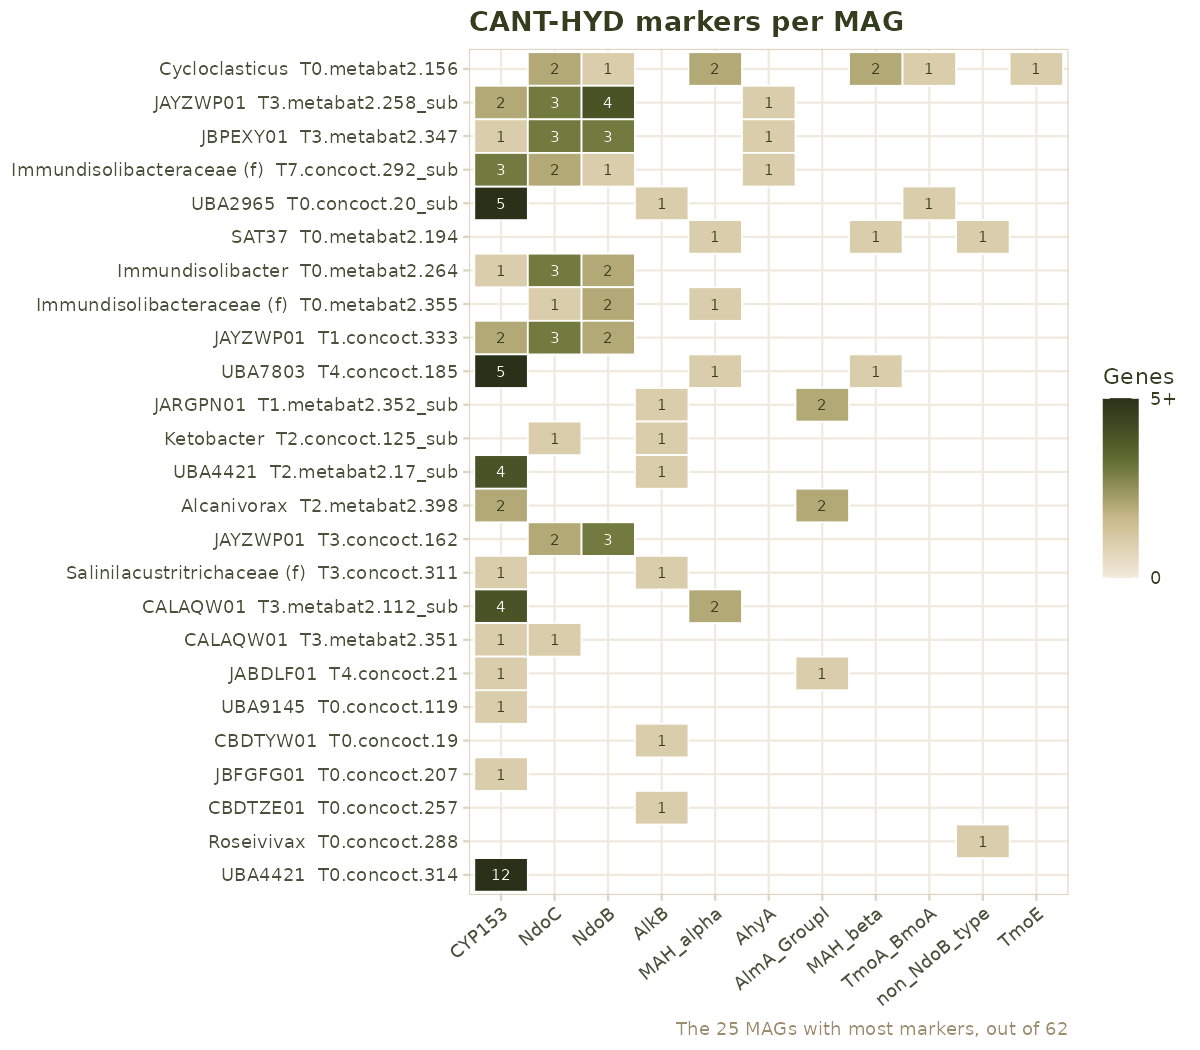
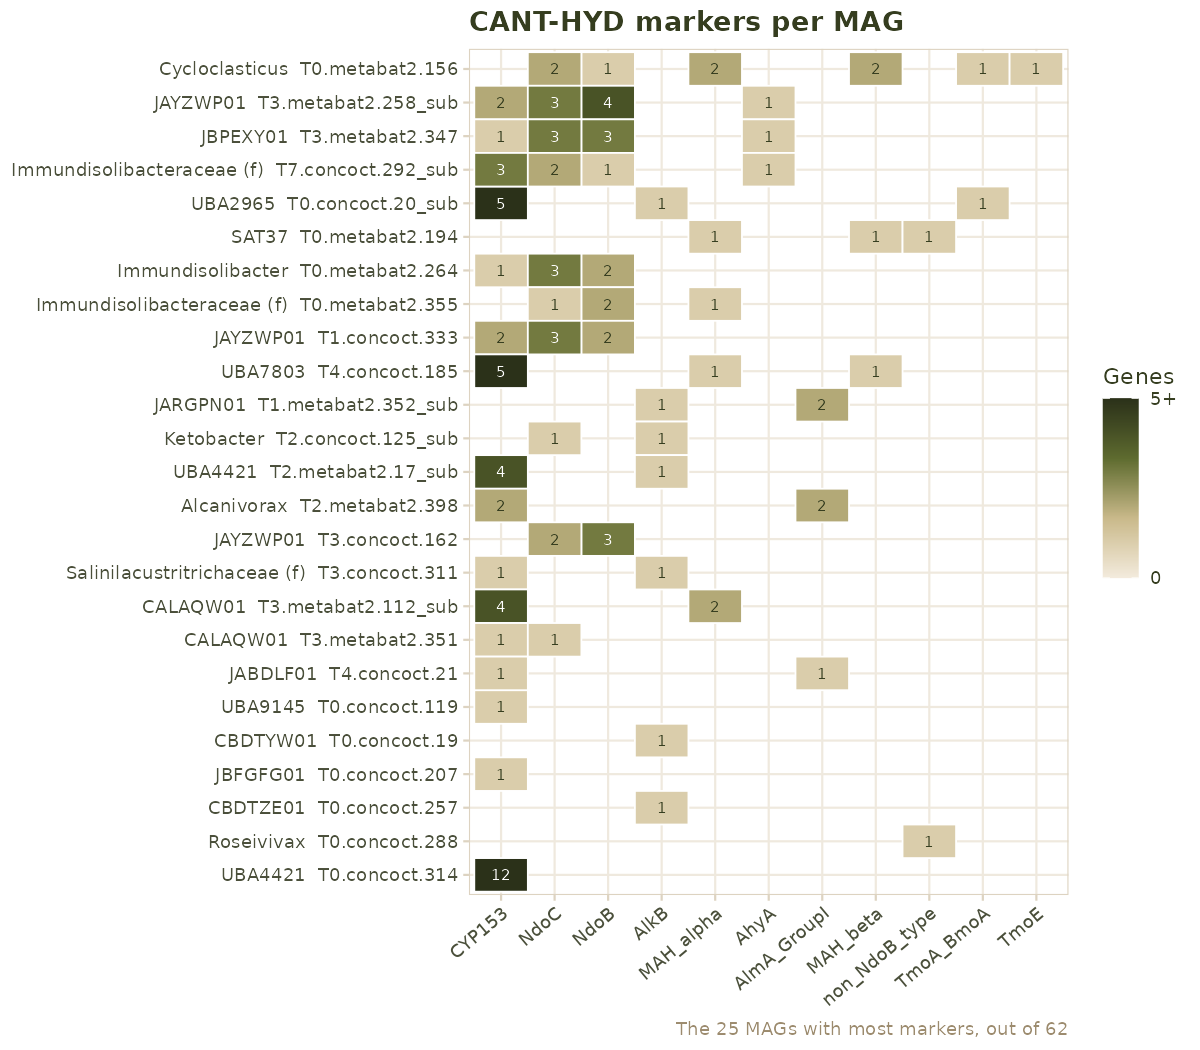
v0.5.1: readable condition labels in plot_abundance_timeline()
New arguments condition_labels and condition_title show readable names in
the legend instead of the codes of the sample names. The Marine Honour
figure now reads L (low) and H (high) oil impact instead of C and O.

diff --git a/README.md b/README.md
@@ -146,7 +146,9 @@ samples$day <- c(T0 = 2, T1 = 17, T2 = 33, T3 = 48,
 plot_abundance_timeline(abundance, samples,
                         groups = hydrocarbon_groups(genes),
                         time = "day", condition = "condition",
-                        time_label = "Days after oil arrival")
+                        time_label = "Days after oil arrival",
+                        condition_labels = c(C = "L (low)", O = "H (high)"),
+                        condition_title = "Oil impact")
 ```
 
 ![Hydrocarbon degraders over time, Marine Honour](man/figures/README-marine-honour-timeline.png)

diff --git a/NEWS.md b/NEWS.md
@@ -1,3 +1,9 @@
+# magreport 0.5.1
+
+* `plot_abundance_timeline()` gains `condition_labels` and `condition_title`, to
+  show readable names in the legend instead of the codes of the sample names
+  (for example "H (high)" instead of "O").
+
 # magreport 0.5.0
 
 ## New features
